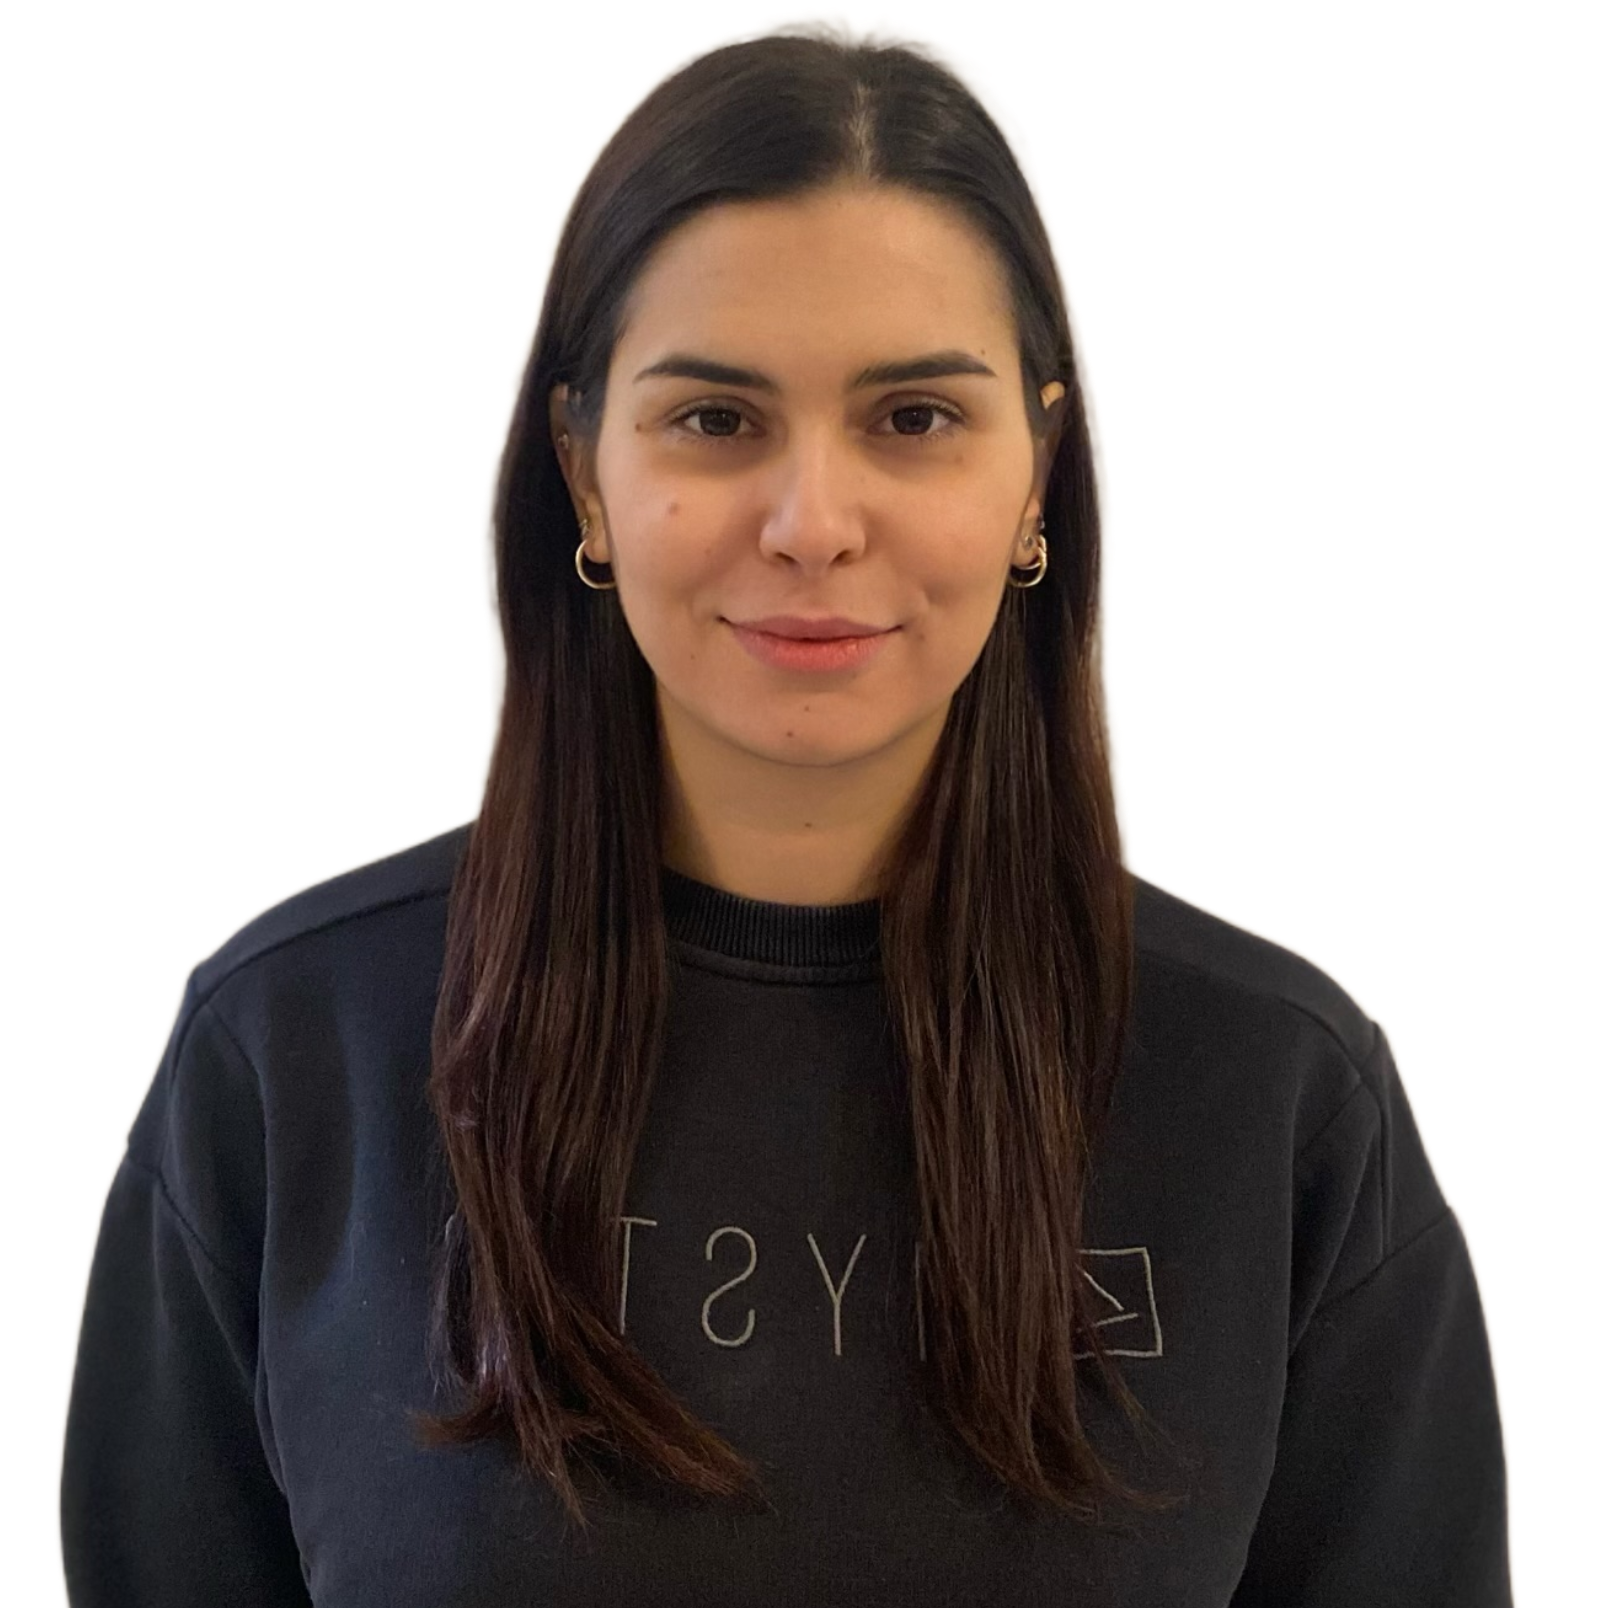
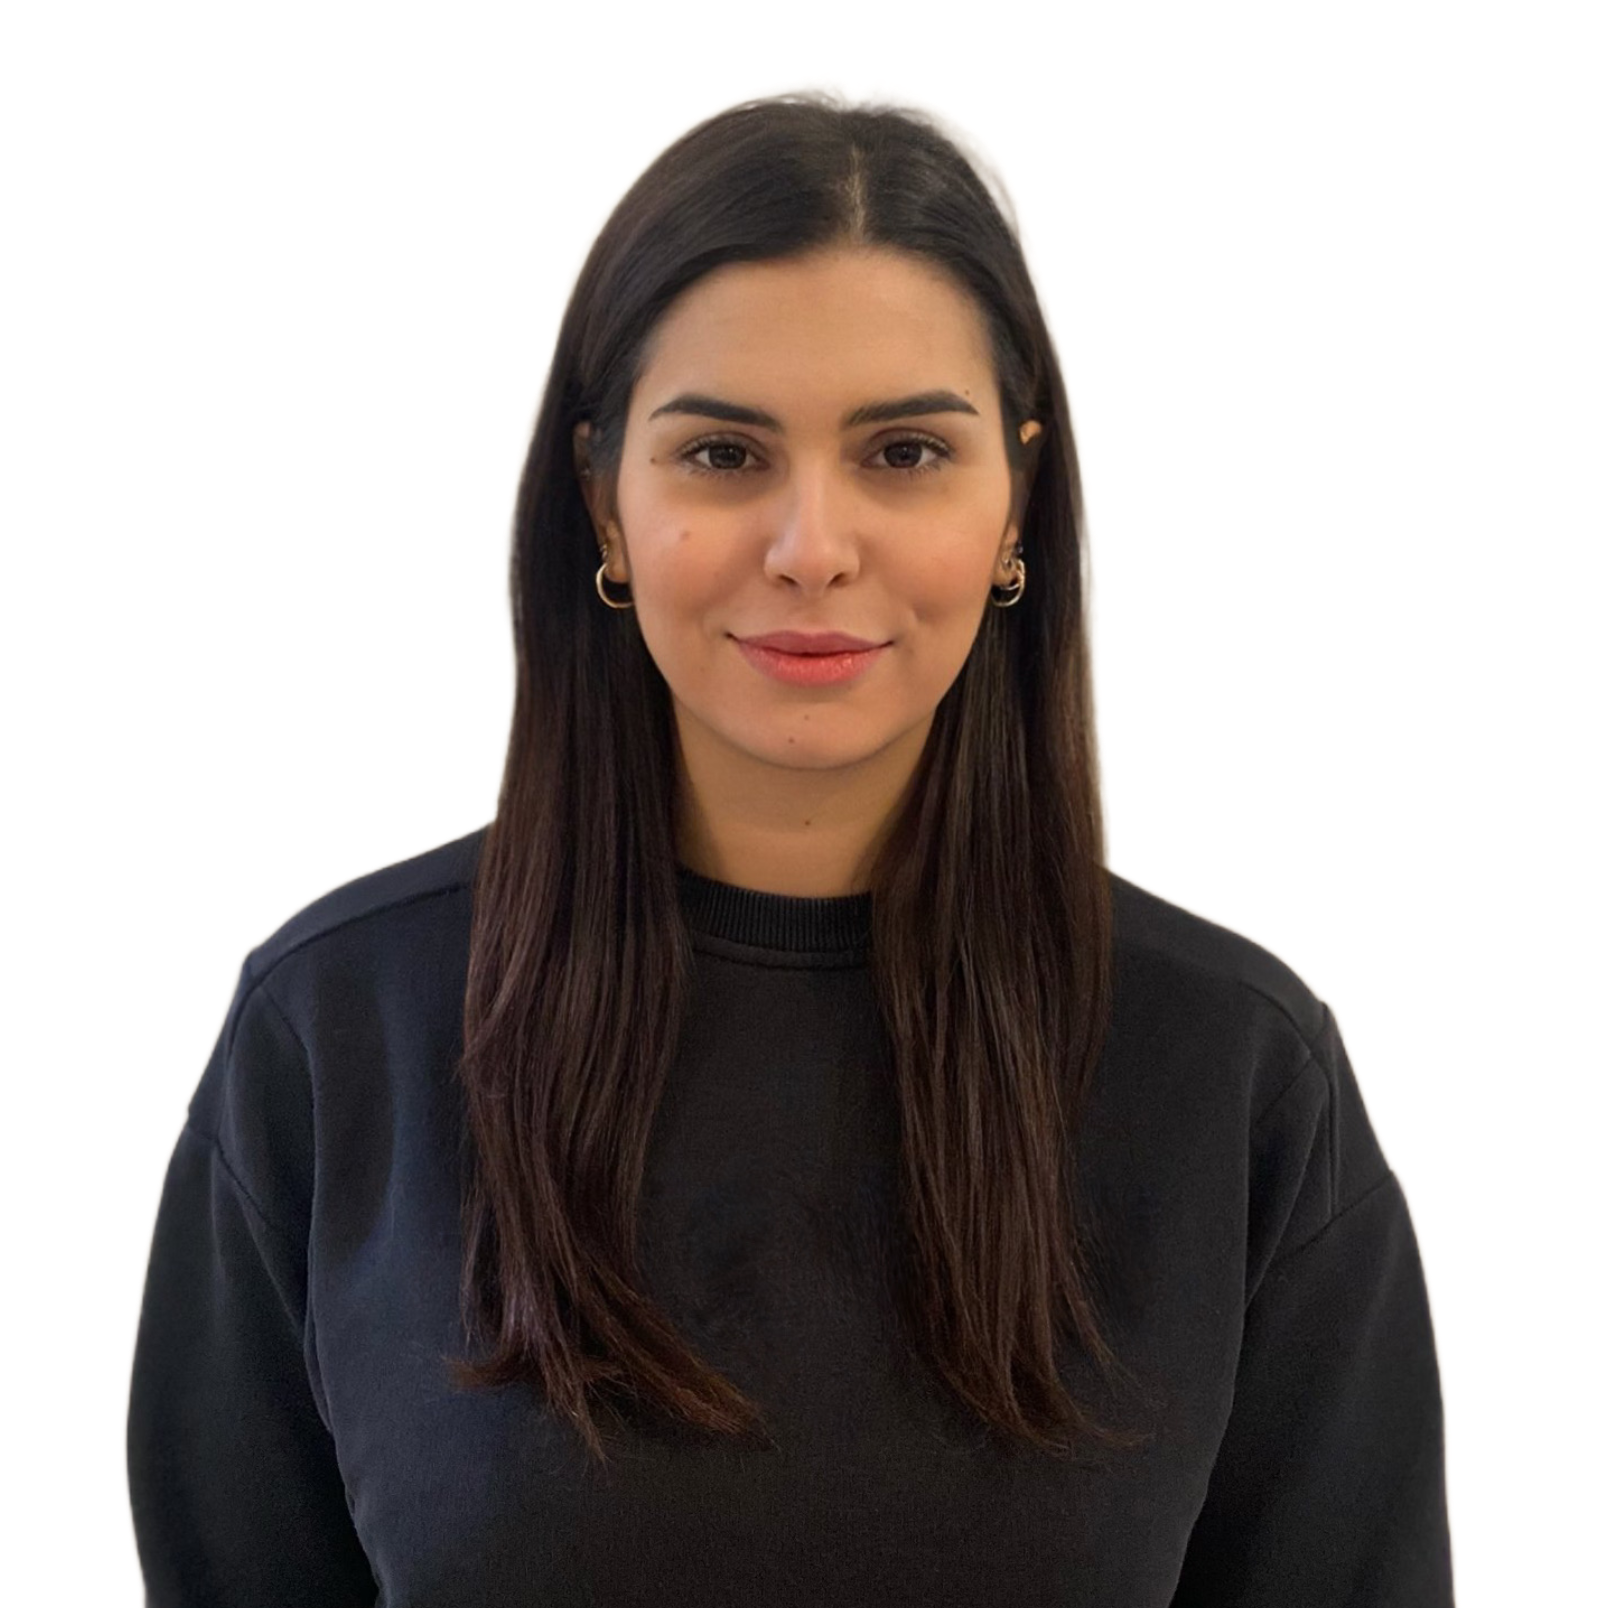
pic changes

diff --git a/_pages/about.md b/_pages/about.md
@@ -7,7 +7,7 @@ subtitle: “Simplicity, carried to the extreme, becomes elegance.”— Jon Fra
 profile:
   align: right
   image: prof_pic.jpg
-  image_circular: false # crops the image to make it circular
+  image_circular: true # crops the image to make it circular
 
 news: false  # includes a list of news items
 latest_posts: false  # includes a list of the newest posts
